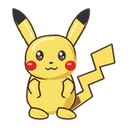
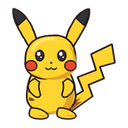
feat(pet): refine Pikachu classic form sprite per reference poster

diff --git a/scripts/build-pikachu-forms.py b/scripts/build-pikachu-forms.py
@@ -23,21 +23,24 @@ COLS, ROWS, CELL_W, CELL_H, SCALE = 8, 9, 192, 208, 4
 OUTLINE = "#493123"
 DARK = "#353039"
 CREAM = "#fff4d9"
+PIKA_LINE = "#231815"
+BROWN_STRIPE = "#82461e"
+BROWN_TAIL = "#a65c26"
 CONTACT = Path("/tmp/pikachu-refined-ten-forms.png")
 
 FORMS = {
     "pichu": {
         "shapeKey": "pichu",
         "name": "Pichu Spark",
-        "fur": ["#c29f2e", "#edd05a", "#fff29c", "#fffde8"],
-        "cheeks": ["#b8354c", "#e86278", "#faa8b5", "#ffe4e8"],
-        "eyes": ["#22150f", "#5c2a16", "#df802c", "#fffdfa"],
+        "fur": ["#b5a02e", "#ded04e", "#fff085", "#fffce0"],
+        "cheeks": ["#ba4567", "#e58ea5", "#f5bccc", "#ffebf2"],
+        "eyes": ["#1a1c1a", "#262826", "#3d4240", "#ffffff"],
     },
     "classic": {
         "shapeKey": "classic",
         "name": "Pikachu Classic",
-        "fur": ["#b88e1a", "#dfb83b", "#f9e066", "#fff4b3"],
-        "cheeks": ["#b51515", "#db2424", "#f74a4a", "#ff9494"],
+        "fur": ["#b87a14", "#e2a325", "#fed430", "#ffea75"],
+        "cheeks": ["#b32015", "#dc3522", "#e8492b", "#ffa090"],
     },
     "raichu": {
         "shapeKey": "raichu",
@@ -240,8 +243,21 @@ def tail(ink, form_id, fur, phase, row):
         else:
             points = [(106,159),(130,145),(122,126),(148,116),(141,94),(170,80),
                       (174,106),(153,112),(159,128),(137,137),(143,153),(113,174)]
-        p.path([("M",*points[0])]+[("L",*pt) for pt in points[1:]]+[("Z",)],light)
-        if form_id != "gigantamax":
+        p.path([("M",*points[0])]+[("L",*pt) for pt in points[1:]]+[("Z",)],light,
+               PIKA_LINE if form_id == "classic" else OUTLINE, 2.0 if form_id == "classic" else 1.8)
+        if form_id == "classic":
+            zig = [
+                ("M", 108, 159),
+                ("L", 121, 153),
+                ("L", 118, 158),
+                ("L", 126, 155),
+                ("L", 121, 161),
+                ("L", 128, 160),
+                ("L", 113, 172),
+                ("Z",)
+            ]
+            p.path(zig, BROWN_TAIL, None)
+        elif form_id != "gigantamax":
             p.path([("M",108,159),("L",123,152),("L",127,161),("L",113,172),("Z",)],"#956044",None)
         else:
             p.path([("M",150,40),("L",158,71),("L",150,68)],None,"#fff3b2",3)
@@ -306,11 +322,11 @@ def ears(ink, form_id, fur, phase, row):
                 ("Q", 140, 75, 114, 87),
                 ("Z",)
             ]
-            p.path(ear_full, fur[2], OUTLINE, 2.0)
-            p.path([("M", 104, 76),
-                    ("Q", 112, 58, 122, 42),
-                    ("L", 136, 54),
-                    ("Q", 134, 70, 114, 82),
+            p.path(ear_full, fur[2], "#1a201c", 2.4)
+            p.path([("M", 103, 76),
+                    ("Q", 111, 58, 121, 42),
+                    ("L", 129, 48),
+                    ("Q", 125, 68, 112, 81),
                     ("Z",)], fur[1], None)
             ear_black_tip = [
                 ("M", 119, 40),
@@ -318,11 +334,11 @@ def ears(ink, form_id, fur, phase, row):
                 ("L", 172, 22),
                 ("L", 166, 56),
                 ("L", 138, 59),
-                ("L", 128, 48),
+                ("L", 133, 49),
+                ("L", 127, 44),
                 ("Z",)
             ]
-            p.path(ear_black_tip, DARK, OUTLINE, 2.0)
-            p.path([("M", 145, 16), ("L", 168, 24), ("L", 163, 50)], None, "#503b2c", 1.4)
+            p.path(ear_black_tip, DARK, "#1a201c", 2.4)
         elif form_id == "raichu":
             p.path([("M",104,85),("C",112,67,113,42,139,28),
                     ("C",128,44,136,48,139,55),("C",147,71,124,80,121,66),
@@ -359,6 +375,11 @@ def ears(ink, form_id, fur, phase, row):
             p.path([("M",99,78),("C",103,61,106,42,116,32),
                     ("C",112,54,122,63,113,81),("Z",)],"#ffdfb6")
             p.path([("M",106,72),("Q",111,60,111,51)],None,"#d59e79",2)
+        elif form_id == "classic":
+            p.path([("M",103,85),("C",106,65,117,36,138,31),
+                    ("C",141,49,123,69,114,88),("Z",)], fur[2], PIKA_LINE, 2.0)
+            p.path([("M",120,44), ("Q",128,33,138,31),
+                    ("Q",139,42,131,54), ("Z",)], DARK, PIKA_LINE, 1.8)
         else:
             short = form_id == "concept-white-belly"
             long = form_id == "concept-long-tail"
@@ -390,7 +411,10 @@ def body(ink, form_id, fur, phase, row):
         outline = [("M",85,top),("C",85+width*.8,top-2,85+width,top+25,85+width,bottom-23),
                    ("C",85+width,bottom+7,85-width,bottom+7,85-width,bottom-23),
                    ("C",85-width,top+25,85-width*.8,top-2,85,top),("Z",)]
-    ink.path(outline,fur[2])
+    ink.path(outline, fur[2], PIKA_LINE if form_id == "classic" else OUTLINE, 2.0 if form_id == "classic" else 1.8)
+    if form_id == "classic":
+        ink.path([("M", 53, 143), ("Q", 58, 144, 61, 147), ("Q", 57, 149, 53, 147), ("Z",)], BROWN_STRIPE, None)
+        ink.path([("M", 54, 154), ("Q", 59, 155, 62, 158), ("Q", 58, 160, 54, 158), ("Z",)], BROWN_STRIPE, None)
     # Organic shadow follows the right flank and folds under the belly.
     ink.path([("M",99,top+9),("C",111,top+28,111,bottom-15,97,bottom-6),
               ("Q",79,bottom+1,66,bottom-6),("C",79,bottom+5,112,bottom+1,115,bottom-15),
@@ -414,9 +438,12 @@ def body(ink, form_id, fur, phase, row):
             ink.path([("M",99,141),("C",109,164,99,171,80,174),
                       ("C",101,181,113,166,99,141),("Z",)],"#e8d4b5",None)
     if baby:
-        ink.path([("M", 60, 121), ("Q", 85, 131, 110, 121), ("L", 105, 137),
-                  ("L", 96, 132), ("L", 90, 142), ("L", 80, 133), ("L", 72, 139),
-                  ("L", 68, 131), ("L", 62, 133), ("Z",)], DARK, OUTLINE, 1.6)
+        ink.path([("M", 60, 121),
+                  ("L", 66, 134), ("L", 71, 126),
+                  ("L", 78, 137), ("L", 85, 128),
+                  ("L", 92, 137), ("L", 99, 126),
+                  ("L", 104, 134), ("L", 110, 121),
+                  ("Z",)], DARK, "#1a201c", 2.4)
     if form_id == "mega-raichu-x":
         ink.path([("M",77,121),("Q",85,116,93,124),("L",91,139),
                   ("L",78,136),("Z",)],"#a56c3d",None)
@@ -428,8 +455,9 @@ def body(ink, form_id, fur, phase, row):
         foot = DARK if form_id in ("raichu","mega-raichu-x","gorochu") else fur[2]
         rx = 22 if athletic else (12 if baby else 15)
         ink.path([("M",x-9,y-7),("C",x+3,y-8,x+rx+2,y,x+rx,y+5),
-                  ("C",x+rx-2,y+10,x-10,y+9,x-11,y+3),("Q",x-12,y-2,x-9,y-7),("Z",)],foot)
-        ink.path([("M",x+3,y+3),("Q",x+9,y+5,x+12,y+4)],None,"#75614f" if foot==DARK else fur[1],1)
+                  ("C",x+rx-2,y+10,x-10,y+9,x-11,y+3),("Q",x-12,y-2,x-9,y-7),("Z",)],foot,
+                 PIKA_LINE if form_id == "classic" else OUTLINE, 1.8)
+        ink.path([("M",x+3,y+3),("Q",x+9,y+5,x+12,y+4)],None,"#75614f" if foot==DARK else fur[1],1.2 if form_id == "classic" else 1)
 
 
 def head(ink, form_id, fur, cheek, phase, row, frame):
@@ -440,7 +468,8 @@ def head(ink, form_id, fur, cheek, phase, row, frame):
     # Smooth complete dome with fuller cheek lobes and a short, rounded muzzle.
     ink.path([("M",85,66 if baby else 68),("C",108 if baby else 106,63 if baby else 65,85+head_w,77 if baby else 79,85+head_w,98 if baby else 99),
               ("C",85+head_w+3 if baby else 85+head_w+4,118 if baby else 119,104 if baby else 103,129,85,128),
-              ("C",64 if baby else 63,131,46 if baby else 47,118 if baby else 120,48 if baby else 49,103 if baby else 104),("C",47 if baby else 48,80 if baby else 81,62,66 if baby else 68,85,66 if baby else 68),("Z",)],fur[2])
+              ("C",64 if baby else 63,131,46 if baby else 47,118 if baby else 120,48 if baby else 49,103 if baby else 104),("C",47 if baby else 48,80 if baby else 81,62,66 if baby else 68,85,66 if baby else 68),("Z",)],fur[2],
+             PIKA_LINE if form_id == "classic" else OUTLINE, 2.0 if form_id == "classic" else 1.8)
     if baby:
         ink.path([("M", 108, 84), ("C", 120, 100, 115, 116, 96, 122),
                   ("Q", 80, 128, 64, 120), ("C", 78, 132, 118, 128, 116, 98),
@@ -460,9 +489,11 @@ def head(ink, form_id, fur, cheek, phase, row, frame):
     # Oval cheek pads sit entirely on the face, never on body/back stripes.
     if baby:
         for x in (56, 113):
-            ink.ellipse(x, 110, 9.2, 8.2, cheek[2], None)
-            ink.ellipse(x, 110, 7.0, 6.0, cheek[1], None)
-            ink.ellipse(x, 110, 4.0, 3.4, cheek[0], None)
+            ink.ellipse(x, 110, 8.8, 7.8, cheek[1], None)
+            ink.ellipse(x, 110, 6.2, 5.5, cheek[2], None)
+    elif form_id == "classic":
+        for x in (57,112):
+            ink.ellipse(x, 110, 7.8, 7.2, cheek[2], PIKA_LINE, 1.4)
     else:
         for x in (57,112):
             ink.ellipse(x,110,7.5,6.8,cheek[1],None)
@@ -471,22 +502,25 @@ def head(ink, form_id, fur, cheek, phase, row, frame):
     blink = row in (0,6,7,8) and frame == 6
     for x in ((68, 101) if baby else (69, 100)):
         if sleeping or blink:
-            ink.path([("M",x-6,97 if baby else 98),("Q",x,103.5 if baby else 103,x+6,97 if baby else 98)],None,DARK,2.4 if baby else 2.2)
+            ink.path([("M",x-5.5 if form_id=="classic" else x-6,97 if baby else (99 if form_id=="classic" else 98)),
+                      ("Q",x,103.5,x+5.5 if form_id=="classic" else x+6,97 if baby else (99 if form_id=="classic" else 98))],
+                     None, PIKA_LINE if form_id=="classic" else DARK, 2.2 if form_id=="classic" else (2.4 if baby else 2.2))
             if baby:
                 ink.path([("M", x + 4, 98), ("L", x + 7, 95)], None, DARK, 1.4)
         elif row == 4:
-            ink.path([("M",x-6,99),("Q",x,89,x+6,99)],None,DARK,2.4 if baby else 2.3)
+            ink.path([("M",x-5.5 if form_id=="classic" else x-6,99),
+                      ("Q",x,90 if form_id=="classic" else 89,x+5.5 if form_id=="classic" else x+6,99)],
+                     None, PIKA_LINE if form_id=="classic" else DARK, 2.2 if form_id=="classic" else (2.4 if baby else 2.3))
         else:
             if baby:
-                ink.ellipse(x, 96, 6.6, 8.0, DARK, OUTLINE, 1.5)
-                iris = FORMS[form_id].get('eyes')
-                iris_col = iris[1] if iris else "#5c2a16"
-                glow_col = iris[2] if iris else "#df802c"
-                ink.ellipse(x, 98.2, 5.0, 5.2, iris_col, None)
-                ink.ellipse(x, 99.8, 4.2, 3.2, glow_col, None)
-                ink.ellipse(x, 96.5, 2.8, 4.0, DARK, None)
-                ink.ellipse(x - 2.0, 93.4, 2.4, 2.8, "#fffdfa", None)
-                ink.ellipse(x + 2.2, 98.4, 1.1, 1.1, "#fffdfa", None)
+                ink.ellipse(x, 96, 6.6, 8.2, DARK, "#1a201c", 1.8)
+                ink.path([("M", x - 4, 99), ("Q", x, 103, x + 4, 99),
+                          ("Q", x, 101, x - 4, 99), ("Z",)], "#3d4240", None)
+                ink.ellipse(x - 1.2, 94.0, 2.4, 2.6, "#ffffff", None)
+            elif form_id == "classic":
+                ink.ellipse(x, 96, 5.6, 7.5, DARK, PIKA_LINE, 1.6)
+                ink.ellipse(x - 1.4, 93.6, 2.3, 2.7, "#ffffff", None)
+                ink.ellipse(x + 1.8, 98.2, 0.9, 0.9, "#ffffff", None)
             else:
                 ink.ellipse(x,96,5.3,7.2,DARK,None)
                 iris = FORMS[form_id].get('eyes')
@@ -499,13 +533,18 @@ def head(ink, form_id, fur, cheek, phase, row, frame):
                 ink.ellipse(x+2,98, .8,.8,"#fffdf5",None)
     ink.ellipse(85, 106.5 if baby else 106, 1.2 if baby else 1.5, 0.9 if baby else 1.2, DARK, None)
     if row == 4 or row == 3:
-        ink.path([("M",78,112),("Q",85,115,92,112),("Q",89,123,85,121),
-                  ("Q",81,123,78,112),("Z",)],"#703d36",DARK,1.2)
-        ink.path([("M",81,118),("Q",85,115,89,118),("Q",86,122,81,118),("Z",)],"#ee9391",None)
+        mouth_dark = "#a82d36" if form_id == "classic" else "#703d36"
+        mouth_pink = "#f07584" if form_id == "classic" else "#ee9391"
+        line = PIKA_LINE if form_id == "classic" else DARK
+        ink.path([("M",77,112),("Q",85,115,93,112),("Q",90,125,85,123),
+                  ("Q",80,125,77,112),("Z",)], mouth_dark, line, 1.4 if form_id == "classic" else 1.2)
+        ink.path([("M",80,119),("Q",85,115,90,119),("Q",87,123,85,123),("Q",83,123,80,119),("Z",)], mouth_pink, None)
     else:
         if baby:
             ink.path([("M", 78, 112.5), ("Q", 81.5, 116.0, 85, 113.0),
                       ("Q", 88.5, 116.0, 92, 112.5)], None, DARK, 1.5)
+        elif form_id == "classic":
+            ink.path([("M",77,113),("Q",81,117,85,113),("Q",89,117,93,113)], None, PIKA_LINE, 1.6)
         else:
             ink.path([("M",77,113),("Q",80,117,85,113),("Q",90,117,94,112)],None,DARK,1.4)
     if form_id == "gorochu" and not sleeping:
@@ -525,17 +564,24 @@ def arms(ink, form_id, fur, phase, row):
             p.path([("M",108 if not baby else 102,127 if not baby else 126),
                     ("C",123,122,126,109+wave,131 if not baby else 124,107+wave if not baby else 106+wave),
                     ("C",140,105+wave,140,115+wave,133 if not baby else 126,122+wave if not baby else 120+wave),
-                    ("Q",126,139,112 if not baby else 105,143 if not baby else 140),("Z",)],fur[2],OUTLINE,1.8 if baby else None)
-            p.ellipse(132 if not baby else 125,114+wave if not baby else 112+wave,6 if not baby else 5,7 if not baby else 5.5,color,None)
-            p.path([("M",133,110+wave),("L",135,111+wave)],None,fur[3],1.3)
+                    ("Q",126,139,112 if not baby else 105,143 if not baby else 140),("Z",)],fur[2],
+                   PIKA_LINE if form_id == "classic" else OUTLINE, 1.8 if (baby or form_id == "classic") else None)
+            if form_id == "classic":
+                p.path([("M",132,107+wave),("L",135,111+wave)], None, PIKA_LINE, 1.0)
+            else:
+                p.ellipse(132 if not baby else 125,114+wave if not baby else 112+wave,6 if not baby else 5,7 if not baby else 5.5,color,None)
+                p.path([("M",133,110+wave),("L",135,111+wave)],None,fur[3],1.3)
         elif row in (7,8):
             reach=math.sin(phase)*2 if row==7 else 0
             p.path([("M",108,129),("Q",122,143,106,158+reach),
-                    ("Q",97,164+reach,94,155+reach),("Q",107,145,102,134),("Z",)],fur[2])
-            p.ellipse(101,156+reach,6,5,color,None)
+                    ("Q",97,164+reach,94,155+reach),("Q",107,145,102,134),("Z",)],fur[2],
+                   PIKA_LINE if form_id == "classic" else OUTLINE, 1.6 if form_id == "classic" else None)
+            if form_id != "classic":
+                p.ellipse(101,156+reach,6,5,color,None)
         elif row==5:
             p.path([("M",108,132),("Q",119,146,107,158),
-                    ("Q",96,160,96,152),("Q",103,146,102,136),("Z",)],fur[2])
+                    ("Q",96,160,96,152),("Q",103,146,102,136),("Z",)],fur[2],
+                   PIKA_LINE if form_id == "classic" else OUTLINE, 1.6 if form_id == "classic" else None)
         else:
             if baby:
                 p.path([("M", 100, 127),
@@ -543,6 +589,11 @@ def arms(ink, form_id, fur, phase, row):
                         ("C", 91, 151, 88, 140, 96, 131),
                         ("Z",)], fur[2], OUTLINE, 1.8)
                 p.path([("M", 96, 138), ("Q", 103, 146, 97, 149)], None, fur[1], 1.2)
+            elif form_id == "classic":
+                stride=math.cos(phase)*6*side if row in (1,2) else math.sin(phase)*1.3
+                p.path([("M",108,128),("C",121,134,119,144+stride,109,152+stride),
+                        ("Q",101,157+stride,100,150+stride),("Q",104,138,101,133),("Z",)],fur[2],
+                       PIKA_LINE, 1.8)
             else:
                 stride=math.cos(phase)*6*side if row in (1,2) else math.sin(phase)*1.3
                 p.path([("M",108,128),("C",121,134,119,144+stride,109,152+stride),
